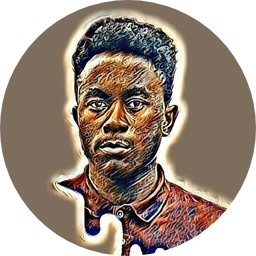
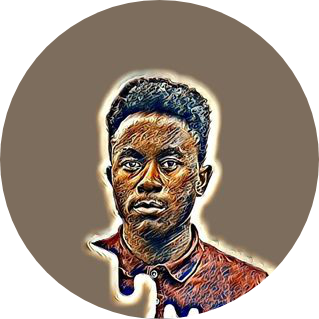
Implement Intro Section

diff --git a/style.css b/style.css
@@ -36,7 +36,7 @@ header {
     background-color: rgba(17, 17, 17, 0.85);
     transition: background 1s;
     width: 100%;
-    padding: 1.5em;
+    padding: 1.5em 0 2.2em;
     z-index: 2;
     -webkit-box-shadow: 0px 2px 3px 0px rgb(0 0 0 / 75%);
     box-shadow: 0px 2px 3px 0px rgb(0 0 0 / 75%);
@@ -78,16 +78,36 @@ header nav {
 }
 
 
+
 .active {
     background-color: white;
     color: black !important;
     border-radius: 5px;
 }
 
+.intro {
+    display: flex;
+    width: 80%;
+    margin: auto;
+    padding: 30px 0;
+    align-items: center;
+    justify-content: space-around;
+
+}
+.intro p {
+    color: #e6e4e1;
+    opacity: 0.85;
+    line-height: 180%;
+}
+.intro img {
+    /* width: 300px;
+    height: 300px; */
+    margin-right: 2em;
+}
+
 .content {
     width: 68%;
     margin: auto;
-    padding-top: 80px;
 }
 
 
@@ -167,6 +187,7 @@ li a {
     box-sizing: border-box;
     /* color: rgba(255, 255, 255, 0.8); */
     color: #e6e4e1;
+    opacity: 0.9;
 }
 
 .project-container h1, .tags {
@@ -219,25 +240,30 @@ footer a {
 
 /* Media queries */
 @media (max-width: 1280px) {
-    header nav, .content {
+    header nav, .content, .intro {
         width: 85%;
-        transition: ease-in-out .3s;
+        transition: ease-in-out .25s;
+    }
+    .intro {
+        flex-direction: column;
+        text-align: center;
+        padding: 30px;
     }
 }
 
 @media (max-width: 1080px) {
-    header nav, .content {
+    header nav, .content , .intro{
         width: 98%;
-        transition: ease-in-out .3s;
+        transition: ease-in-out .25s;
     }
 }
 
 /* This is intended for smaller device screen but, is not working as expected */
 @media (max-width: 800px) {
-    header nav, .content {
+    header nav, .content, .intro {
         width: 98%;
         flex-direction: column-reverse;
-        transition: ease-in-out .3s;
+        transition: ease-in-out .25s;
     }
 
     .author-title {

diff --git a/index.html b/index.html
@@ -10,7 +10,7 @@
     <link href="https://fonts.googleapis.com/css2?family=Quicksand:wght@700&display=swap" rel="stylesheet">
     <link rel="stylesheet" href="Styles/normalize.css">
     <link href="style.css" rel="stylesheet">
-    <link rel="shortcut icon" href="images/author-circle.png" />
+    <link rel="shortcut icon" href="images/author-shortcut.png" />
     <title>Cédric Bahirwe</title>
 
 </head>
@@ -27,7 +27,7 @@
             </div>
             <ul>
                 <li><a href="index.html" class="active">Portfolio</a></li>
-                <li><a href="https://twitter.com/cedricbahirwe" target="_blank"> News</a></li>
+                <li><a href="https://twitter.com/cedricbahirwe" target="_blank">Blog</a></li>
                 <li><a href="https://www.linkedin.com/in/cedricbahirwe" target="_blank">Github</a></li>
                 <li><a href="htmls/about.html">About</a></li>
             </ul>
@@ -37,6 +37,17 @@
 
     <main>
 
+        <div class="intro">
+
+                <img src="/images/author-circle.png" alt="Cédric Bahirwe Picture">
+                <p>
+                   I am Cédric Bahirwe, a Passionate Software Engineer with  3.5+ years of experience in Software engineering, 
+                   over 2+ years of experience building iOS applications for iPhone, Ipad and Apple Watch using Swift, UIKit and SwiftUI.
+                   I have developed software for a huge range of devices and platforms including iPhones, iPads, Apple Watch, Android and Web,
+                    using languages like Swift, JavaScript, Python, Kotlin, and more.
+                </p>
+
+        </div>
         <div class="content">
             <div class="projects">
                 <h1>My Projects</h1>

diff --git a/htmls/about.html b/htmls/about.html
@@ -6,7 +6,7 @@
     <link rel="stylesheet" href="../Styles/normalize.css">
     <link href="../style.css" rel="stylesheet">
     <link href="../Styles/about.css" rel="stylesheet">
-    <link rel="shortcut icon" href="../images/author-circle.png" />
+    <link rel="shortcut icon" href="../images/author-shortcut.png" />
     <title>About Cédric</title>
 
 </head>
@@ -22,7 +22,7 @@
             </div>
             <ul>
                 <li><a href="../index.html">Portfolio</a></li>
-                <li><a href="https://twitter.com/cedricbahirwe" target="_blank"> News</a></li>
+                <li><a href="https://twitter.com/cedricbahirwe" target="_blank">Blog</a></li>
                 <li><a href="https://www.linkedin.com/in/cedricbahirwe" target="_blank">Github</a></li>
                 <li><a href="htmls/about.html" class="active">About</a></li>
             </ul>
